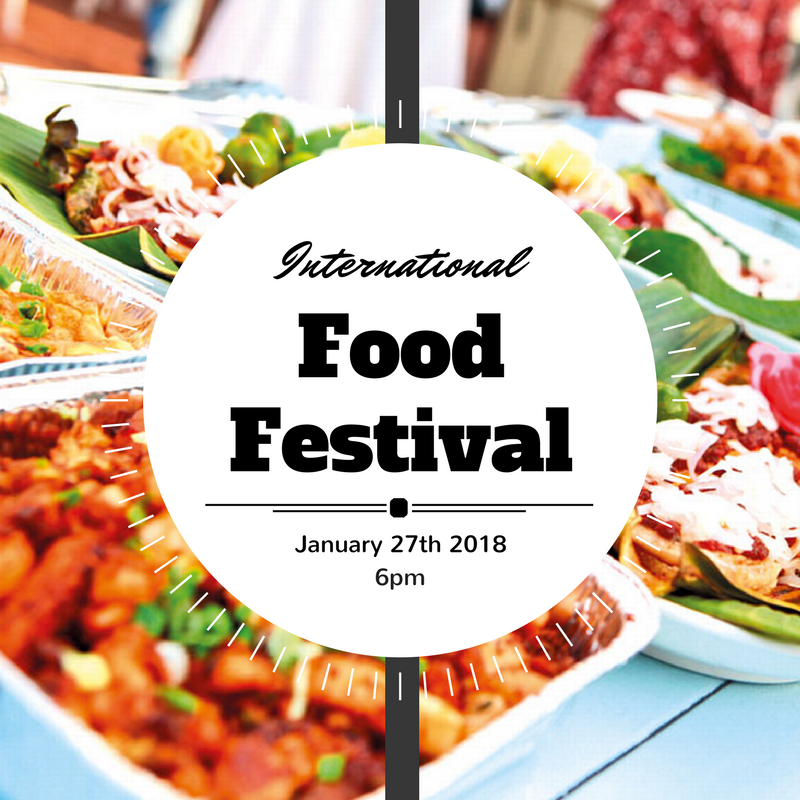
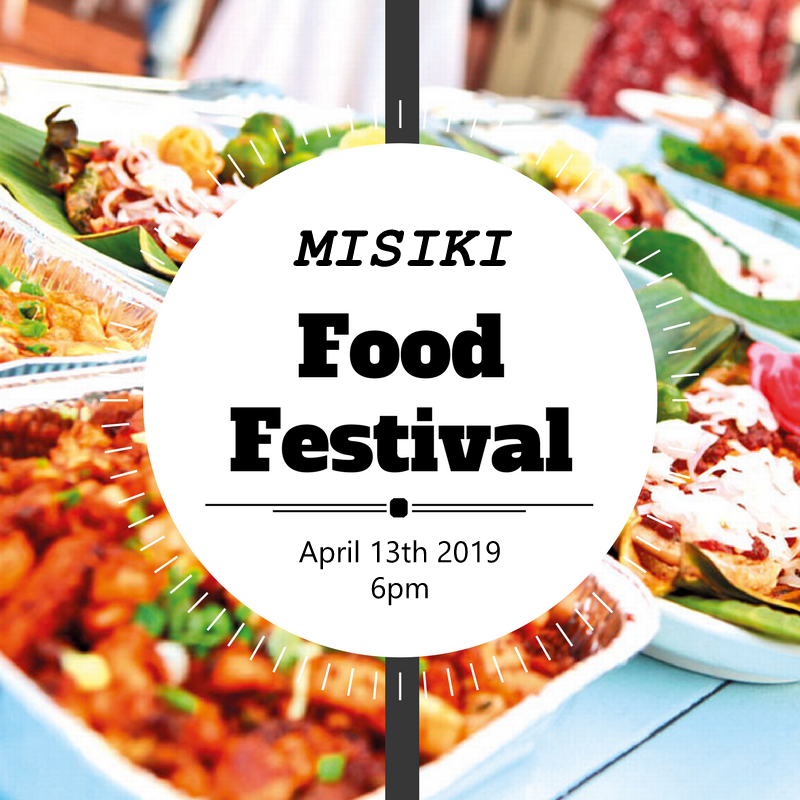
join as chef

Changed region(s): [[0.375, 0.6562, 0.6562, 0.75], [0.3438, 0.2812, 0.6562, 0.3438]]

diff --git a/pages/food/chef.vue b/pages/food/chef.vue
@@ -1,0 +1,139 @@
+<template>
+  <div>
+    <Header />
+    <center class="title">
+      <strong>Join as Chef</strong>
+    </center>
+    <form
+      novalidate
+      @submit.stop.prevent="save(profile)"
+      v-if="profile"
+    >
+      <div class="form">
+        <div class="form-element">
+          <label>Restaurant:</label>
+          <input
+            type="text"
+            name="name"
+            autofocus
+            v-model="profile.restaurant"
+            placeholder="Restaurant Name"
+          /> &nbsp;&nbsp;<span style="color:red">(Public)</span>
+        </div>
+        <div class="form-element">
+          <label>First Name:</label>
+          <input
+            type="text"
+            name="name"
+            autofocus
+            v-model="profile.firstName"
+            placeholder="First Name"
+          /> <span style="color:green">(Private)</span>
+        </div>
+        <div class="form-element">
+          <label>Last Name:</label>
+          <input
+            type="text"
+            name="name"
+            autofocus
+            v-model="profile.lastName"
+            placeholder="Last Name"
+          /><span style="color:green"> (Private)</span>
+        </div>
+        <div class="form-element">
+          <label>Email Address:</label>
+          <input
+            type="text"
+            name="email"
+            v-model="profile.email"
+            placeholder="Email"
+          /><span style="color:green"> (Private)</span>
+        </div>
+        <div class="form-element">
+          <label>Dish 1:</label>
+          <input
+            type="text"
+            name="Dish 1"
+            v-model="profile.dish1"
+            placeholder="Dish 1"
+          /><span style="color:grey"> (Private)</span>
+        </div>
+        <div class="form-element">
+          <label>Dish 2:</label>
+          <input
+            type="text"
+            name="dish2"
+            v-model="profile.dish2"
+            placeholder="Dish 2"
+          /><span style="color:grey"> (Private)</span>
+        </div>
+        <div class="form-element">
+          <label>Dish 3:</label>
+          <input
+            type="text"
+            name="dish3"
+            v-model="profile.dish3"
+            placeholder="Dish 3"
+          /><span style="color:grey"> (Private)</span>
+        </div>
+      </div>
+      <div class="footer">
+        <div class="form-element">
+          <button type="submit">Save Changes</button>
+        </div>
+      </div>
+    </form>
+  </div>
+</template>
+
+<script>
+import { mapGetters, mapActions } from "vuex";
+const Header = () => import("~/components/HeaderFood");
+export default {
+  components: {
+    Header
+  },
+  fetch({ store, redirect }) {
+    if (!(store.state.auth || {}).user)
+      return redirect("/login?return=/food/chef");
+  },
+  async asyncData({ store }) {
+    let profile = {};
+    let userDetails = await store.dispatch("auth/fetch");
+    profile = Object.assign({}, userDetails);
+    return { profile };
+  },
+  data() {
+    return {
+      user: null,
+      showImageModal: false,
+      userAvatar: null
+    };
+  },
+  computed: {
+    ...mapGetters({
+      loading: "loading"
+    })
+  },
+  methods: {
+    ...mapActions({
+      updateProfile: "auth/updateProfile"
+    }),
+    save(profile) {
+      this.updateProfile(profile);
+      this.$router.push("/my");
+    }
+  },
+  watch: {
+    // userAvatar: function(avatar) {
+    //   this.user.avatar = avatar;
+    // }
+  },
+  created() {},
+  head() {
+    return {
+      title: "Update your profile"
+    };
+  }
+};
+</script>

diff --git a/pages/index.vue b/pages/index.vue
@@ -2,14 +2,14 @@
   <div>
     <Header />
     <div class="fx hero">
-      <div
+      <nuxt-link
         class="section banner food blue"
-        @click="go('/food')"
+        to="/food"
       >
         <img src="/food-tray.svg" />
         <h1>Food Order</h1>
         <div>Misiki Food Mela</div>
-      </div>
+      </nuxt-link>
       <a
         class="section banner travel red"
         href="https://www.misiki.in"
@@ -18,26 +18,28 @@
         <h1>Book a Taxi</h1>
         <div>Misiki Taxi</div>
       </a>
-      <div
+    </div>
+    <div class="fx hero">
+      <nuxt-link
         class="section banner groceries blue"
-        @click="go('/grocery')"
+        to="/grocery"
       >
         <img src="/cab.svg" />
         <h1>Groceries</h1>
         <div>Get Delivered at home</div>
-      </div>
+      </nuxt-link>
     </div>
-    <div
+    <nuxt-link
       class="fx banner yellow"
-      @click="go('/food/login')"
+      to="/food/chef"
     >
       <img
         src="/paper-plane.svg"
         style="width:20px"
       />
-      <div class="abs">Join as Chef</div>
+      <div class="abs">Wish to become Chef?</div>
       <div>13th April' 2019</div>
-    </div>
+    </nuxt-link>
     <div
       class="fx hero-banner"
       @click="go('/food')"

diff --git a/store/auth.js b/store/auth.js
@@ -127,13 +127,13 @@ export const actions = {
             commit('setErr', err, { root: true })
         }
     },
-    async updateProfile({ commit, rootState }, { firstName, lastName, email, city, zip, avatar, gender, dob, language, restaurant }) {
+    async updateProfile({ commit, rootState }, { firstName, lastName, email, city, zip, avatar, gender, dob, language, restaurant, dish1, dish2, dish3 }) {
         if (rootState.settings.demo) {
             commit('info', 'Demo mode: Unable to update profile info', { root: true })
             return
         }
         try {
-            const data = await this.$axios.$put('/users/profile', { firstName, lastName, email, city, zip, avatar, gender, dob, language, restaurant })
+            const data = await this.$axios.$put('/users/profile', { firstName, lastName, email, city, zip, avatar, gender, dob, language, restaurant, dish1, dish2, dish3 })
             if (data) {
                 commit('setUser', { email: data.email, firstName: data.firstName, lastName: data.lastName, phone1: data.phone1, avatar: data.avatar, dob: data.dob, gender: data.gender, language: data.language, restaurant: data.restaurant })
                 try {

diff --git a/assets/styles/reset.css b/assets/styles/reset.css
@@ -5,6 +5,11 @@
 }
 body{
   font-family: Karla, Roboto, sans-serif;
+  line-height: 1;
+  color: #2d2d2d;
+}
+a{
+  text-decoration: none;
 }
 html, body, ul, ol, fieldset {
   margin: 0;
@@ -14,10 +19,6 @@ html {
   -webkit-text-size-adjust: 100%;
   -ms-text-size-adjust: 100%;
   text-size-adjust: 100%;
-}
-body {
-  line-height: 1;
-  color: #2d2d2d;
 }
 .fx{
   display: flex;
